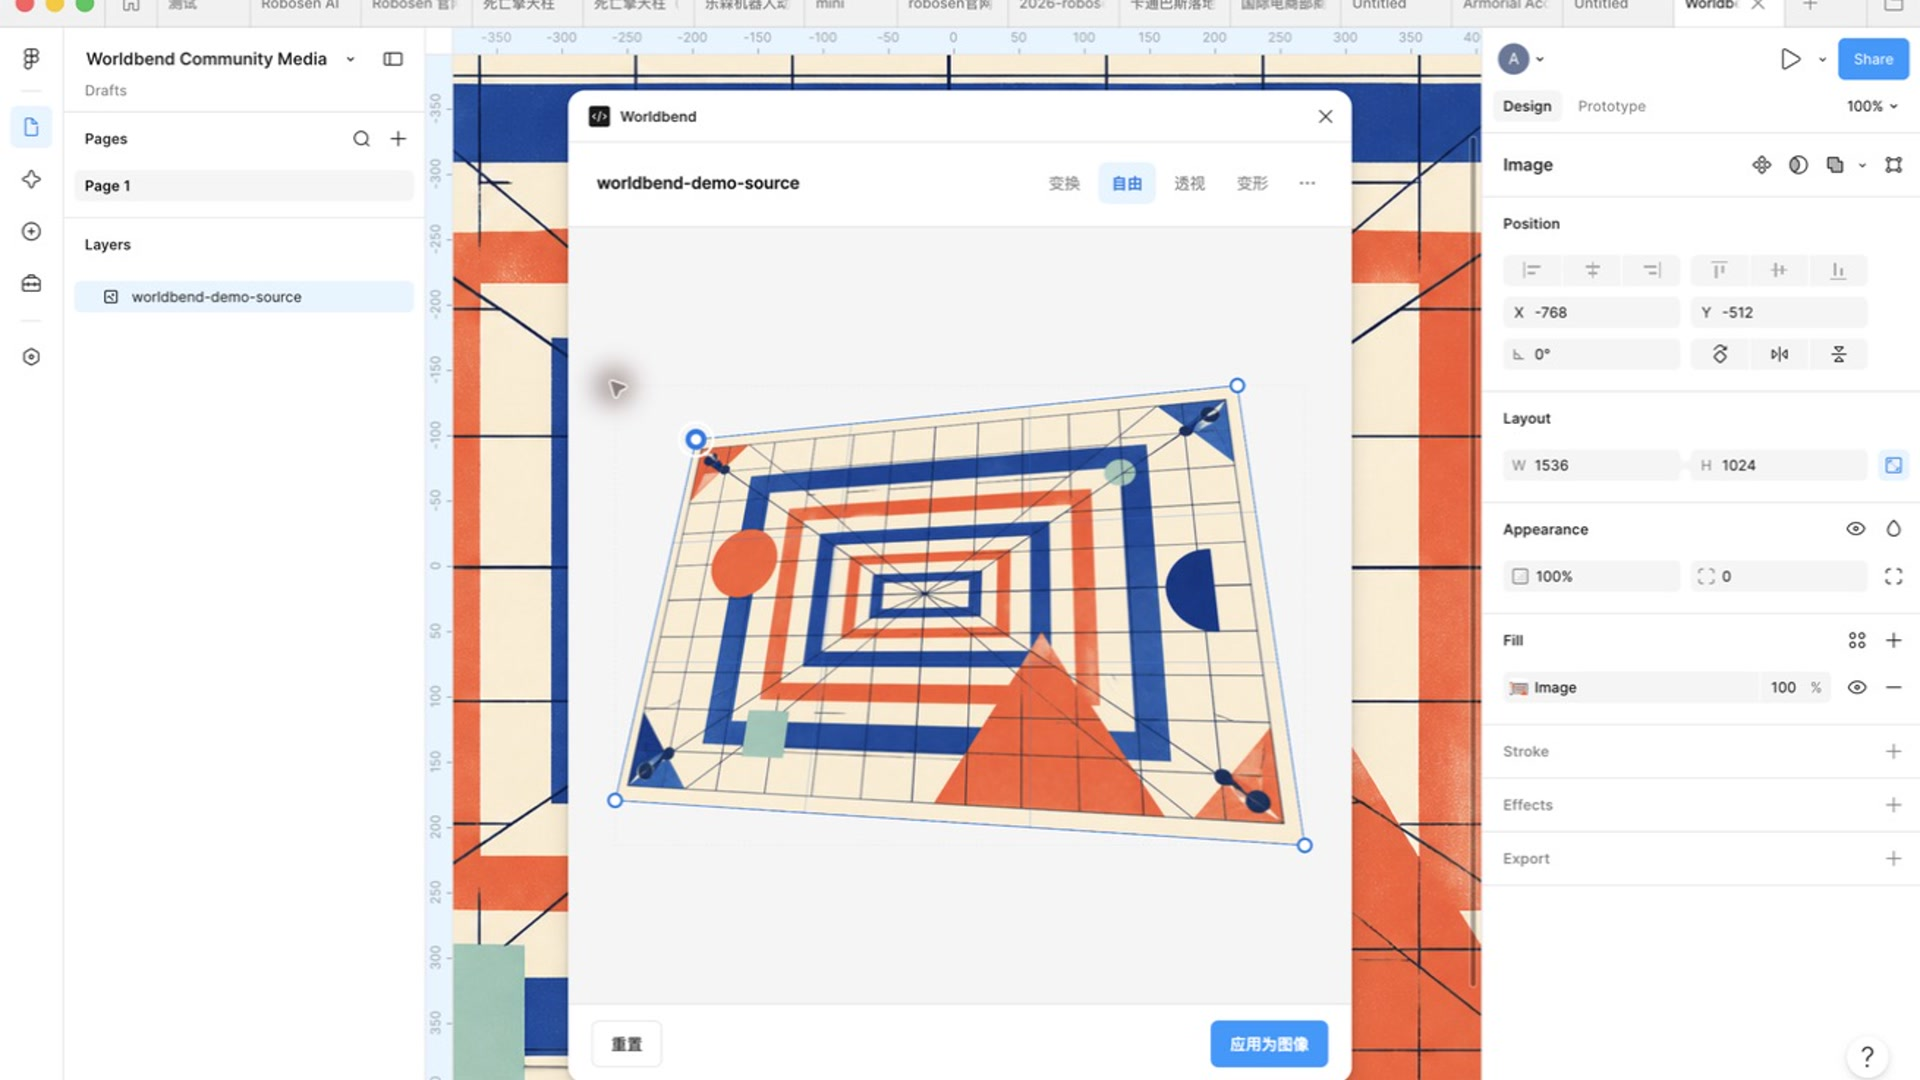
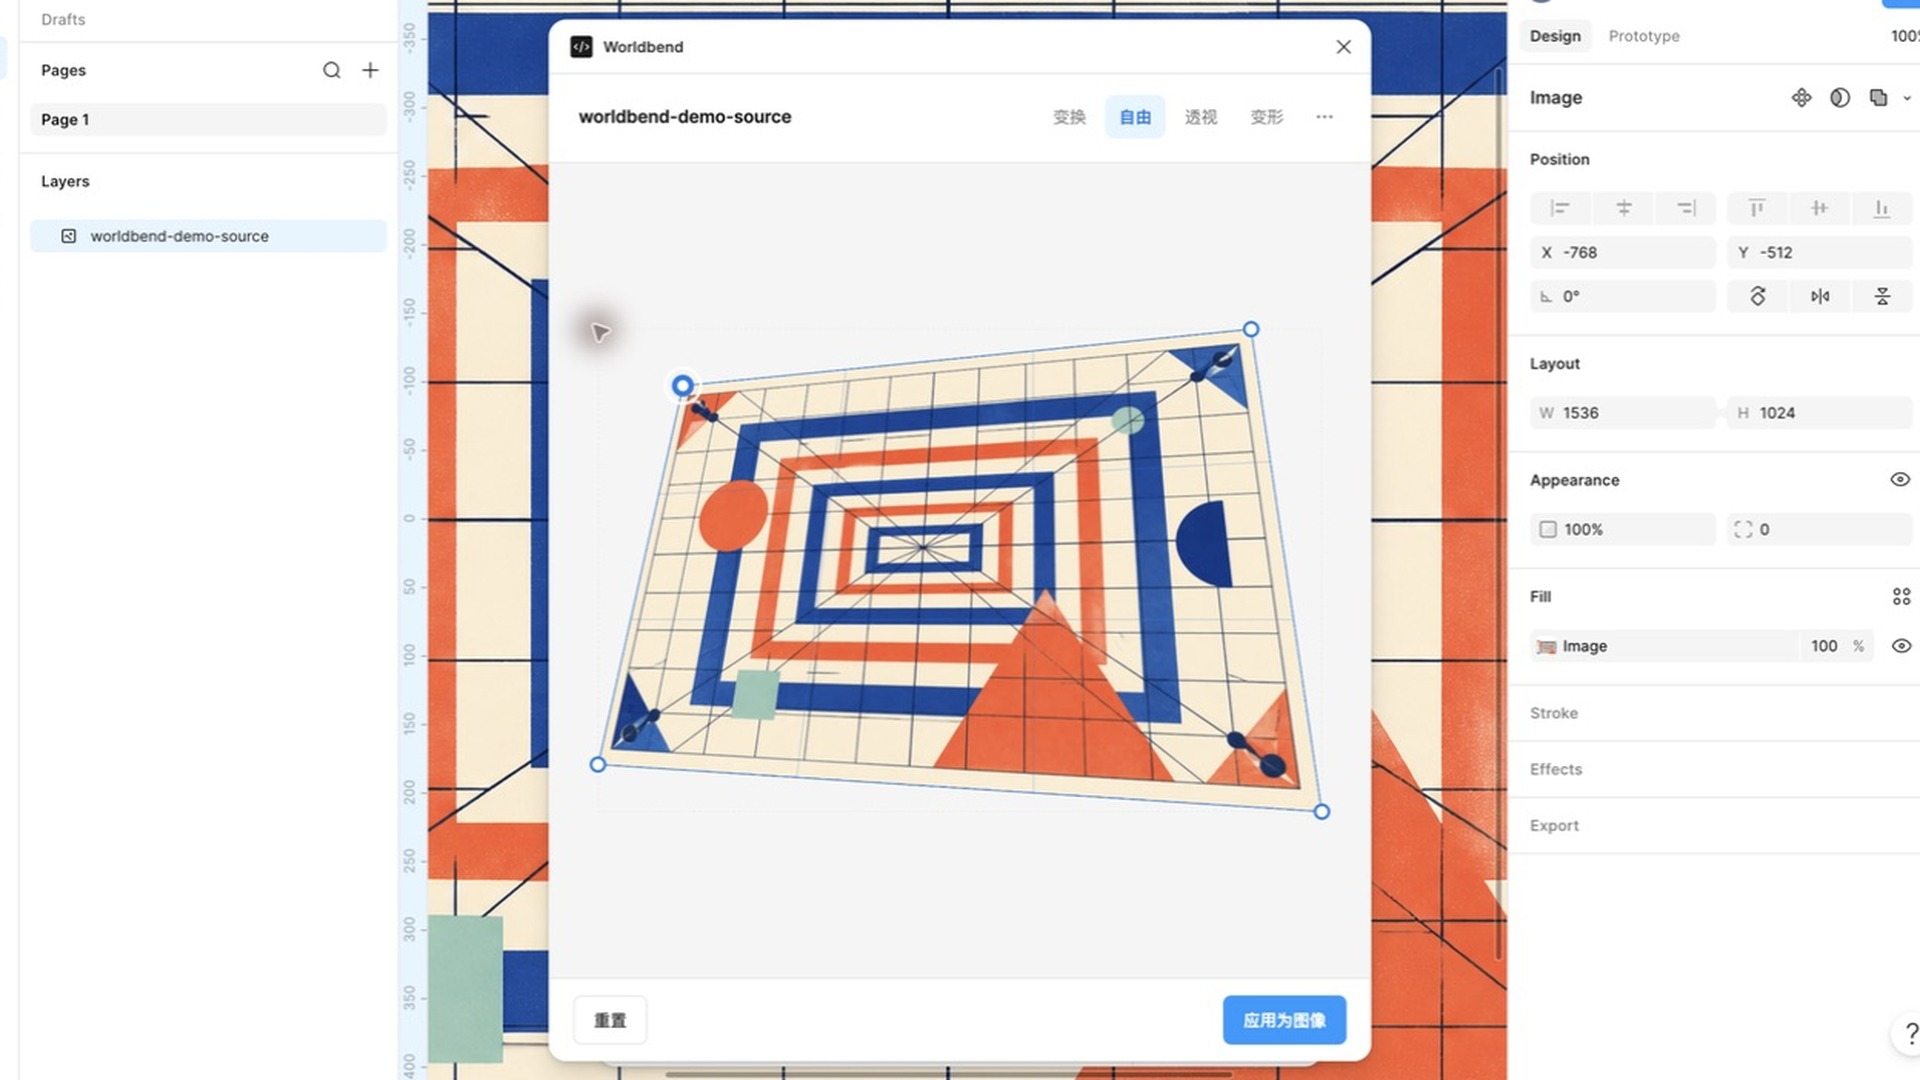
Remove Figma tabs from Community media

diff --git a/docs/FIGMA_COMMUNITY_RELEASE.md b/docs/FIGMA_COMMUNITY_RELEASE.md
@@ -57,6 +57,9 @@ arbitrary mesh deformation are not included in this release.
   thumbnail and shows the current plugin on a real Figma Desktop source.
 - `assets/figma-community/applied-result-runtime-1920x1080.jpg` shows a
   successful free Apply and the current `· Worldbend` result.
+- Both upload-ready images and their tracked source crops exclude the Figma app
+  tab bar and unrelated file names; no company project names appear in the
+  submitted media.
 - Later optional previews may add Transform, Warp, and source/result re-editing,
   but must continue to use the current runtime rather than mock controls.
 
@@ -95,7 +98,9 @@ Before submission:
 - **Review state:** Submitted on 2026-08-30; Figma reports that only the
   publisher can see the page while the plugin is in review
 - **Submitted source revision:** `3802586074897523d97127ad328db766e6aa669e`
-- **Media:** Icon, primary runtime thumbnail, and applied-result carousel image
+- **Media:** Icon plus one sanitized runtime thumbnail and one sanitized
+  applied-result carousel image; Figma received the replacement submission on
+  2026-08-30
 - **Data security:** No backend, network requests, or authentication; local
   plugin storage disclosed; solo-developer update management disclosed
 - **Financial configuration:** None; the submission created no selling,

diff --git a/assets/figma-community/README.md b/assets/figma-community/README.md
@@ -12,9 +12,11 @@ or grant a Worldbend product license.
   free Apply path created a `· Worldbend` result.
 
 The two runtime images were captured from the current plugin using
-`examples/worldbend-demo-source.png`, then mechanically cropped and scaled to
-the Figma Community 1920 x 1080 requirement. Their `*-source.jpeg` files retain
-the uncropped desktop captures.
+`examples/worldbend-demo-source.png`. The tracked source images remove the top
+64 pixels of Figma window chrome and use a centered 1248 x 702 crop, so app
+tabs and unrelated file names are absent. The upload-ready copies are
+mechanically scaled from that sanitized 16:9 crop to Figma Community's
+1920 x 1080 requirement.
 
 `worldbend-icon-source.png` is the project source for the upload icon. It was
 generated with the built-in image generator from a no-text brief: a deep-navy

diff --git a/docs/CAMPAIGN_ANCHOR.md b/docs/CAMPAIGN_ANCHOR.md
@@ -64,6 +64,11 @@ and reverse engineering; it does not publish or license the private GitHub
 source. No selling, Stripe, tax, payout, price, trial, banking, backend,
 analytics, authentication, or network configuration was created.
 
+The first uploaded runtime images were found to retain Figma's app tab bar.
+They were removed before approval and replaced with verified 16:9 crops that
+exclude the top 64 pixels of window chrome and contain no unrelated project
+names. Figma received the corrected review submission on 2026-08-30.
+
 Worldbend's own Apache-2.0 declarations and product license files are absent
 from the release tree. Locked third-party dependency notices, license texts,
 and SPDX inventory remain because binary redistribution obligations are
